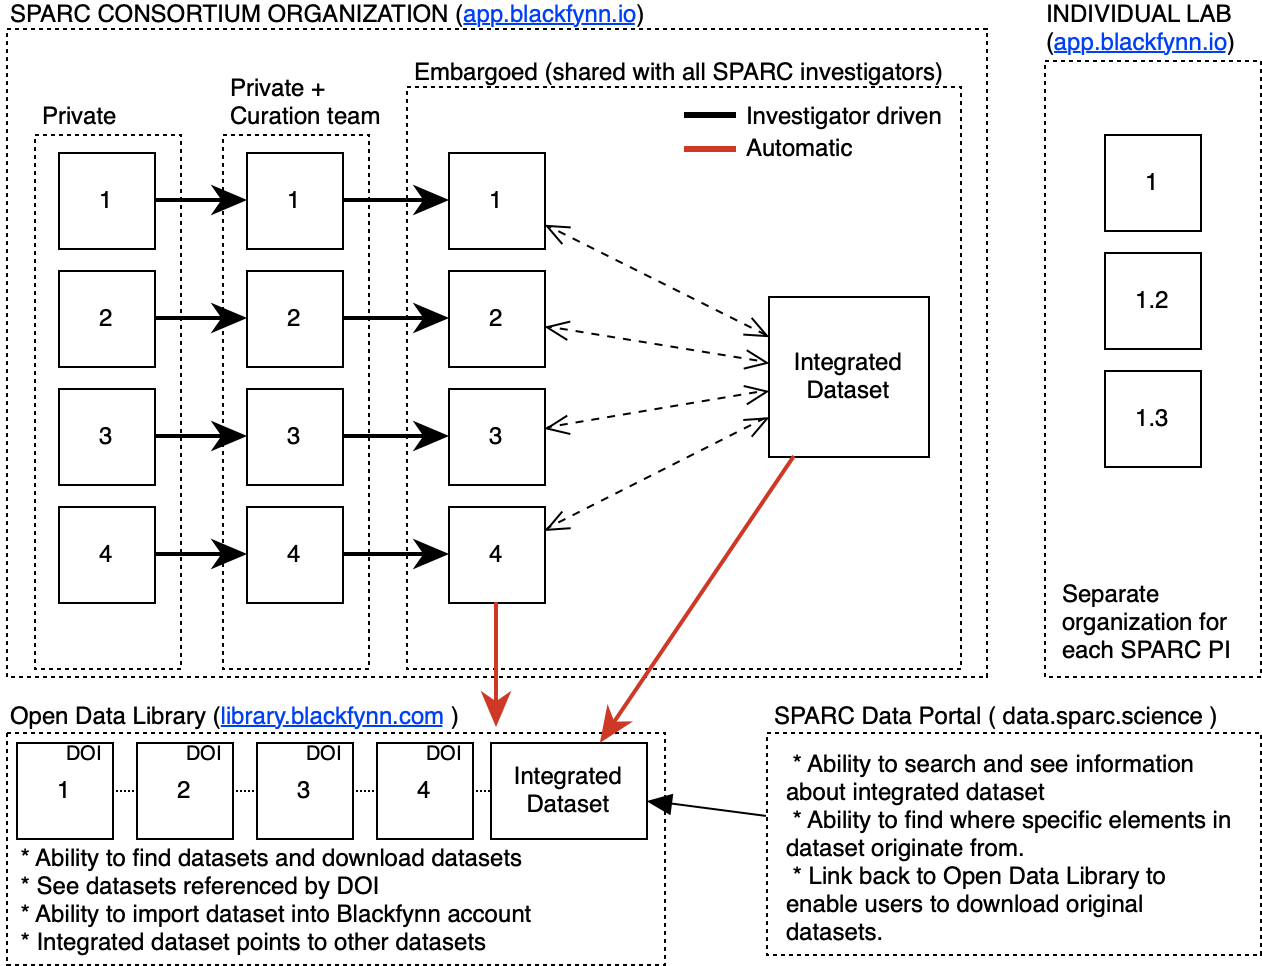
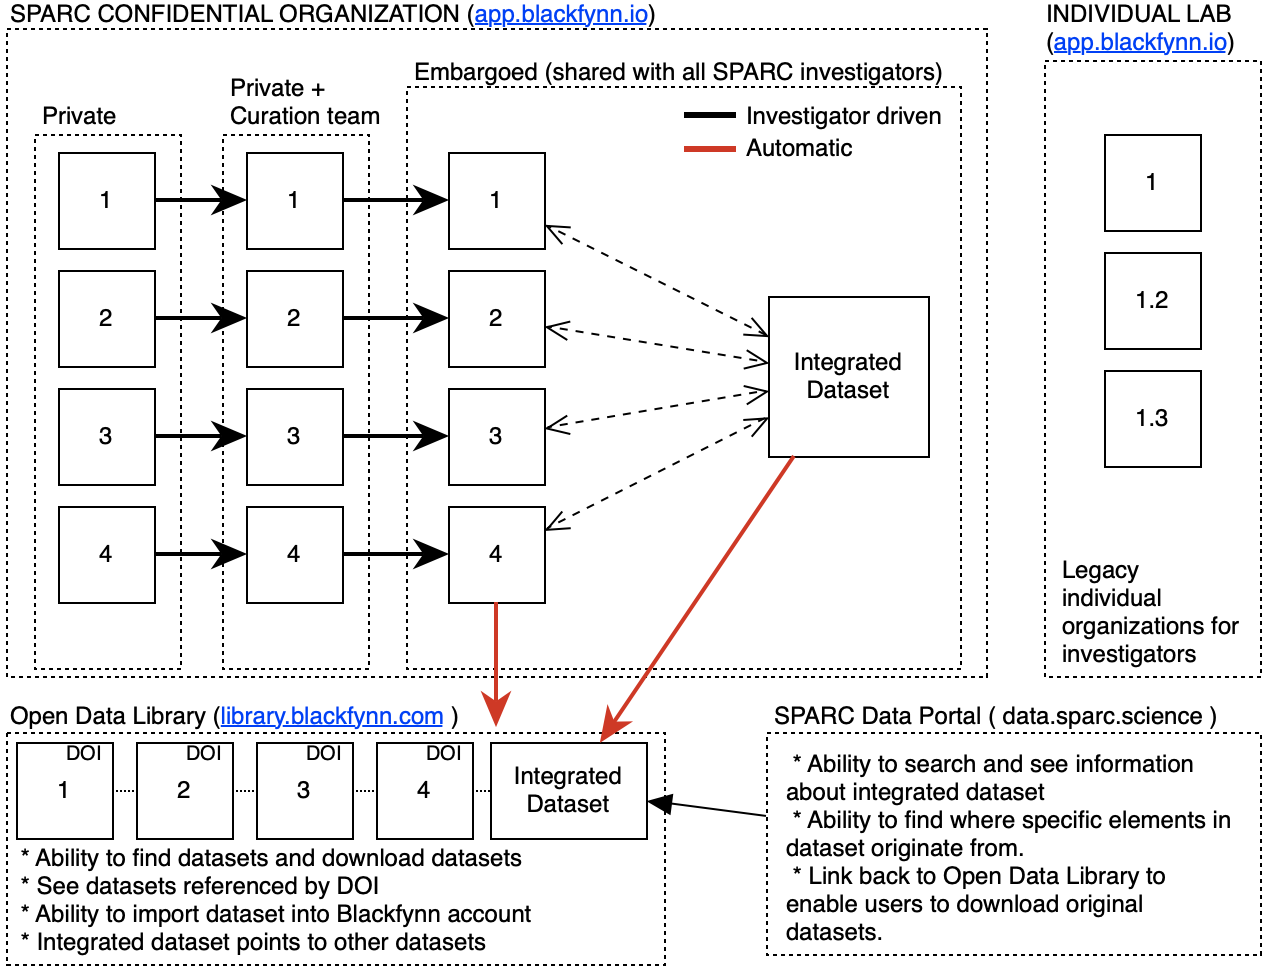
updated DRC info

Changed region(s): [[0.8344, 0.559, 0.9889, 0.6832], [0.1236, 0.0, 0.5254, 0.0311]]

diff --git a/pages/data_submission/submit_data.md b/pages/data_submission/submit_data.md
@@ -1,5 +1,5 @@
 ---
-title: "SPARC Data submission workflow"
+title: "SPARC Data curation steps"
 keywords: documentation, github
 sidebar: sparc_sidebar
 permalink: submit_data.html
@@ -14,8 +14,10 @@ folder: general
 
 ### Creation of a draft dataset
 **Timeline:** Creation of a draft dataset is up to the investigator 
-Who has access to the data: The data is private and is accessible only to those that you specifically invite to access the data (this applies to the DAT-Core as well).
-Who owns the data: The investigator that submitted the data or the person who is assigned as the owner of the dataset.
+
+**Who has access to the data:** The data is private and is accessible only to those that you specifically invite to access the data (this applies to the DAT-Core as well).
+
+**Who owns the data:** The investigator that submitted the data or the person who is assigned as the owner of the dataset.
 
 **Process:** At any time, users can create a draft dataset within the SPARC Consortium account in preparation for submitting the data to the consortium. 
 
@@ -24,36 +26,42 @@ At this time, the data is private to the data owner. At any point in time, users
 **Required steps for the data owner:**
 - Creating and naming a dataset (see: Creating datasets )
 - Providing a description of the dataset
-- Selecting the SPARC data models that are applicable to the data that is being submitted.
-- Uploading files and annotating the data with the data standards models as seen fit. (see: Uploading data and Annotating data with records )
+- Uploading files and annotating the data as preparation for the data curation team.
+
+### Sharing draft dataset with the data curation team
+**Timeline:** Sharing the data with the data curation team is up to the investigator
+
+**Who has access to the data:** The data is private and is accessible only to those that you specifically invite to access the data. At this stage this will include the data curation team.
+
+**Who owns the data:** The investigator that submitted the data or the person who is assigned as the owner of the dataset.
+
+**Process:** The data curation team will work with the investigators to curate the dataset. This includes capturing the metadata and mapping it to the standardized models developed by the data standards committee.
+
+**Required steps for the data owner:**
+- Share the dataset with the SPARC curation team on the DAT-Core platform
+- Work with the curation team to curate the data
 
 
 ### Initial submission and publishing as embargoed dataset
 **Timeline:** Finalizing the draft dataset is required 1 month after the completion of a data milestone
-Who has access to the data: The data is now shared with the SPARC Consortium and all SPARC investigators can see the data.
-Who owns the data: The investigator that submitted the data or the person who is assigned as the owner of the dataset.
+
+**Who has access to the data:** The data is now shared with the SPARC Consortium and all SPARC investigators can see the data.
+
+**Who owns the data:** The investigator that submitted the data or the person who is assigned as the owner of the dataset.
 
 **Process:** At a specific point in time when a data milestone is due, the NIH Leadership team will require the investigators to share the draft dataset with the SPARC Consortium. The dataset is now considered to be an embargoed dataset. 
-Making the data available to the SPARC consortium will provide “read-only” access to all members of the SPARC Consortium account. The investigator is still the data owner and is the only member who can change who can edit the data in the dataset. 
+Making the data available to the SPARC consortium will provide “read-only” access to all members of the SPARC Consortium account. The investigator is still the data owner and can restrict who has 'edit' permissions on the dataset.
 
 **Required steps for the data owner:**
-- The owner will have to change the ‘sharing’ setting to include the entire SPARC Consortium account. 
-
-### Finalize submission and integration in SPARC Resource
-**Timeline:** We expect that the metadata curation team will work with the SPARC team over a period of a month to ensure that the dataset adheres to the SPARC data standards.
-Who has access to the data: The data is shared with the SPARC Consortium and the data curation team will work with the investigators to finalize the dataset.
-Who owns the data: The investigator that submitted the data or the person who is assigned as the owner of the dataset
-
-**Process:** After data is made available to the SPARC consortium as an embargoed dataset, the metadata curation team will start validating the submitted dataset and work with the data owners to make sure the submitted dataset adheres to the required data standards. In addition, the metadata curation team will initiate integration of the data into the SPARC Integrated Dataset. 
-
-**Required steps for the data owner:**
-- Work with the curation team to ensure the dataset adheres to the data standards.
+- The owner will have to change the ‘sharing’ setting to include the entire SPARC Consortium account with read-only priviledges.
 
 
 ### Publishing submitted dataset into public domain 
 **Timeline:** One year after the initial submission of the dataset.
-Who has access to the data: The dataset is now publicly available. There will be processes that require people outside the SPARC Consortium to request access to the data from the data owner. 
-Who owns the data: The investigator that submitted the data or the person who is assigned as the owner of the dataset.
+
+**Who has access to the data:** The dataset is now publicly available. There will be processes that require people outside the SPARC Consortium to request access to the data from the data owner. 
+
+**Who owns the data:** The investigator that submitted the data or the person who is assigned as the owner of the dataset.
 
 **Process:** One year after the the creation of the embargoed dataset, the data owner will be required to make the dataset public on the Open Data Library. When datasets are shared publicly, the data will receive a DOI which can be used to reference the data in publications.
 

diff --git a/pages/data_submission/dat_core_user_accounts.md b/pages/data_submission/dat_core_user_accounts.md
@@ -1,25 +1,27 @@
 ---
-title: "User Accounts"
+title: "User Accounts & Organizations"
 keywords: documentation, github
 sidebar: sparc_sidebar
 permalink: user_accounts.html
-summary: This pages outlines the workflow for submitting data to the SPARC DAT-Core. 
+summary: This page describes the various accounts and resources that are available to the SPARC investigators.
 folder: general
 ---
 
-## User accounts on the DAT-Core
+## Organizations on the DAT-Core
 
-All SPARC investigators have access to the DAT-Core platform ([Blackfynn](https://app.blackfynn.io)). SPARC Investigators will have access to two accounts on the Blackfynn platform. 
+All SPARC investigators have access to the DAT-Core platform ([Blackfynn](https://app.blackfynn.io)). SPARC Investigators will have access to two organizations on the Blackfynn platform. 
 
-1. **A private account for their lab:** This account is available to the individual SPARC investigators and is independent of the SPARC requirements. Investigators can use this account for their data management needs within, and beyond the SPARC program. This account is private and not managed by the SPARC Consortium and has the same restrictions as a standard [Blackfynn academic subscription](https://www.blackfynn.com/academia)
+1. **A private organization for their lab:** 
+These accounts will should no longer be used for SPARC related efforts and will be transitioned to our standard free academic subscription model by March 2019 ([Blackfynn academic subscription](https://www.blackfynn.com/academia)). The private lab accounts were created for individual labs during the first year of the DAT-Core effort. However, starting in December 2018, all SPARC related data should be hosted in the **SPARC Confidential** organization. 
 
-2. **The SPARC Consortium account:** This account will be used for all data submissions to the SPARC consortium. This account will enforce strict data models and data submission processes. 
+2. **The SPARC Confidential organization:** 
+This organization will be used for all data submissions to the SPARC consortium. Investigators can create private datasets in this organization, and selectively share their dataset within this organization with other individuals or teams.  
 
-The remainder of the SPARC documenentation will reference the **SPARC Consortium organization** only. 
+For the remainder of the SPARC documenentation, any notion of organization on the DAT-Core will reference the **SPARC Consortium** organization only. 
 
-### The SPARC Consortium account on the DAT-Core
+### The SPARC Confidential organization on the DAT-Core
 
-Since the SPARC Consortium account will host all SPARC data (including embargoed data), access to to this organization will be restricted until users sign a non-disclosure agreement (NDA). User accounts to this organization will be managed by the DAT-CORE. By signing the NDA, SPARC awardees agree not to unilaterally publish or disseminate data made available from other labs and not to use data for commercial purposes during the embargo period. Once the users have signed the NDA, they will be granted access to the SPARC Consortium account. 
+Since the SPARC Confidential organization will host all SPARC data (including embargoed data), access to to this organization will be restricted until users sign a non-disclosure agreement (NDA). User accounts to this organization will be managed by the DAT-CORE. By signing the NDA, SPARC awardees agree not to unilaterally publish or disseminate data made available from other labs and not to use data for commercial purposes during the embargo period. Once the users have signed the NDA, they will be granted access to the SPARC Consortium account. 
 
 ### SPARC Teams on the DAT-Core
 
@@ -28,3 +30,7 @@ Once users are accepted into the SPARC Consortium account, each investigator gro
 ## SPARC Slack Organization
 
 All SPARC investigators can join the SPARC [Slack Account](https://www.slack.com). SPARC uses Slack to foster collaboration and communication between investigators within the SPARC program. If you are interested to join the Slack account, send a message to Leonardo Guercio from the DAT-Core (support@blackfynn.com).
+
+## SPARC TalentLMS
+
+SPARC is using [TalentLMS](https://learnwithsparc.talentlms.com/index) for documentation, tutorials and resources related to SPARC meetings. Please contact Sue Tappan from MBF for more information.

diff --git a/pages/dat_core/dat_core_roadmap.md b/pages/dat_core/dat_core_roadmap.md
@@ -25,6 +25,7 @@ This document outlines the SPARC milestones for the DAT-Core as outlined in the 
 3. **Support for dataset status:** Adding support for a status flag on datasets indicating the stage of curation it is in (draft, in-review, finalized)
 4. **Support for N-dimensional imaging data:** The DAT-Core will expand functionality for 3D clinical imaging, and N-Dimensional microscopy imaging. 
 5. **Improved tracking of SPARC data-use:** The DAT-Core will improve funcitonality to track how much data is contributed by SPARC investigators.
+6. **Support for two additional file formats:** The DAT-Core will add support for 64-bit Spike2 files and .ac2 files.
 
 ### Q3: April-June 2019
 
@@ -40,6 +41,7 @@ This document outlines the SPARC milestones for the DAT-Core as outlined in the 
 1. **Support for hierarchical ontologies:** The DAT-Core will expand functionality to link to ontologies and support for hierarchical ontologies. 
 2. **Support for merging metadata from multiple datasets:** The DAT-Core will provide functionality to merge metadata between datasets.
 3. **Expanded support for the Open Data Library:** DAT-Core will implement functionality to allow investigators outside the SPARC initiative, without a subscription to the DAT-Core platform, to access/download data from the Open Data Library in a sustainable way (cost for downloading data will be passed ot the downloader).
+4. **Support for two additional file formats:** Specific file formats are TBD.
 
 
 ### SPARC Year 3

diff --git a/pages/dat_core/file_upload_dat_core.md b/pages/dat_core/file_upload_dat_core.md
@@ -1,0 +1,19 @@
+---
+title: "Uploading files to the DAT-Core"
+keywords: documentation, github
+sidebar: sparc_sidebar
+permalink: file_upload_dat_core.html
+summary: This page outlines the various ways that files can be uploaded to the DAT-Core. 
+folder: general
+---
+
+
+## Introduction
+SPARC investigators are required to upload their scientific files to the DAT-Core. There are multiple ways for users to upload files to the platform. Here, we describe the various options and provide links to tutorials describing step by step instructions to upload files.
+
+Please see the [Blackfynn Help](http://help.blackfynn.com) for more information.
+More SPARC specific information soon:
+
+
+
+
